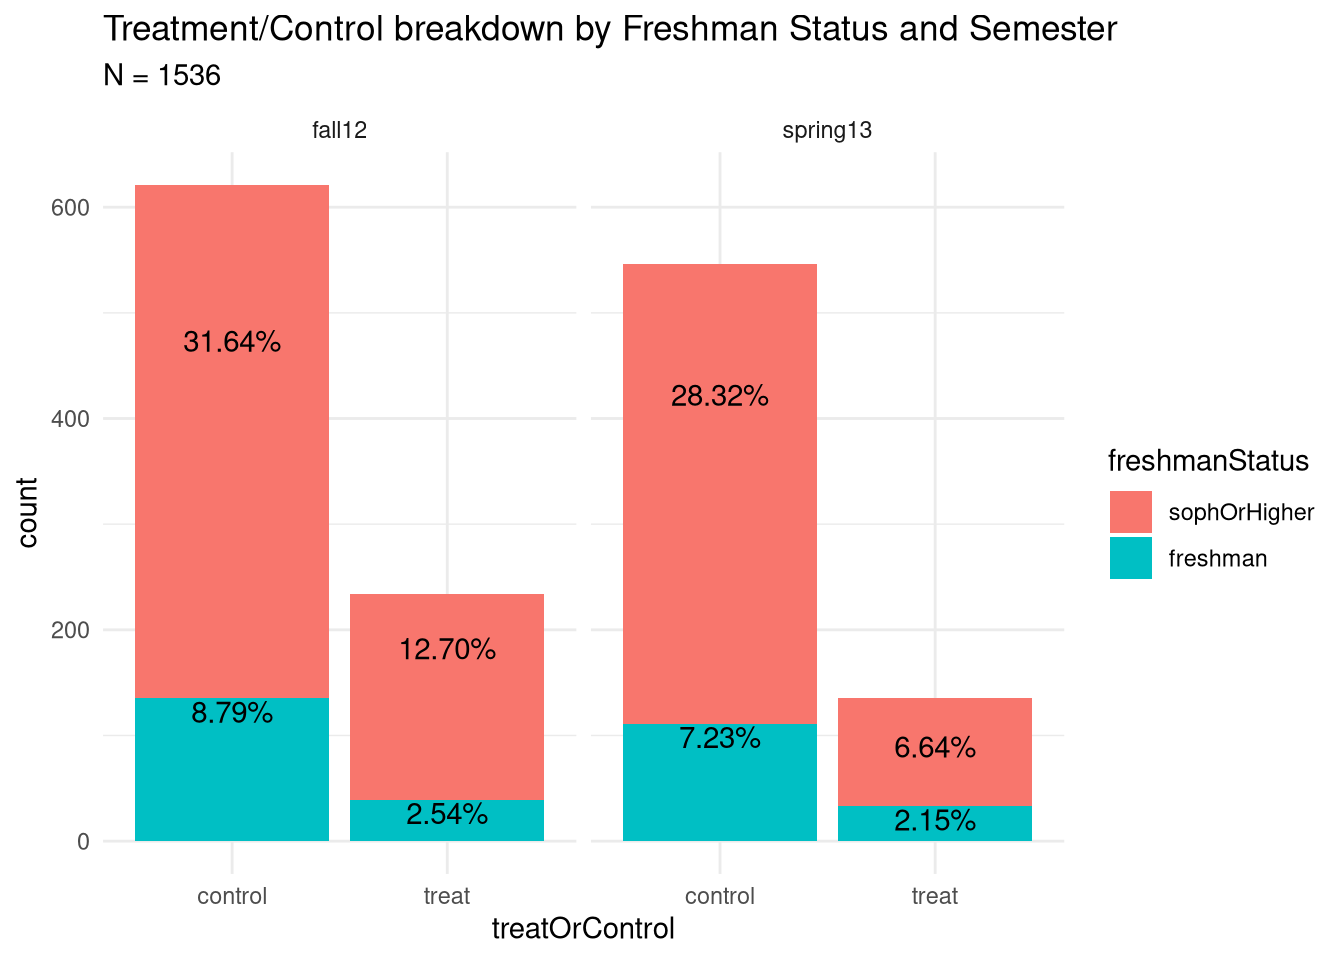
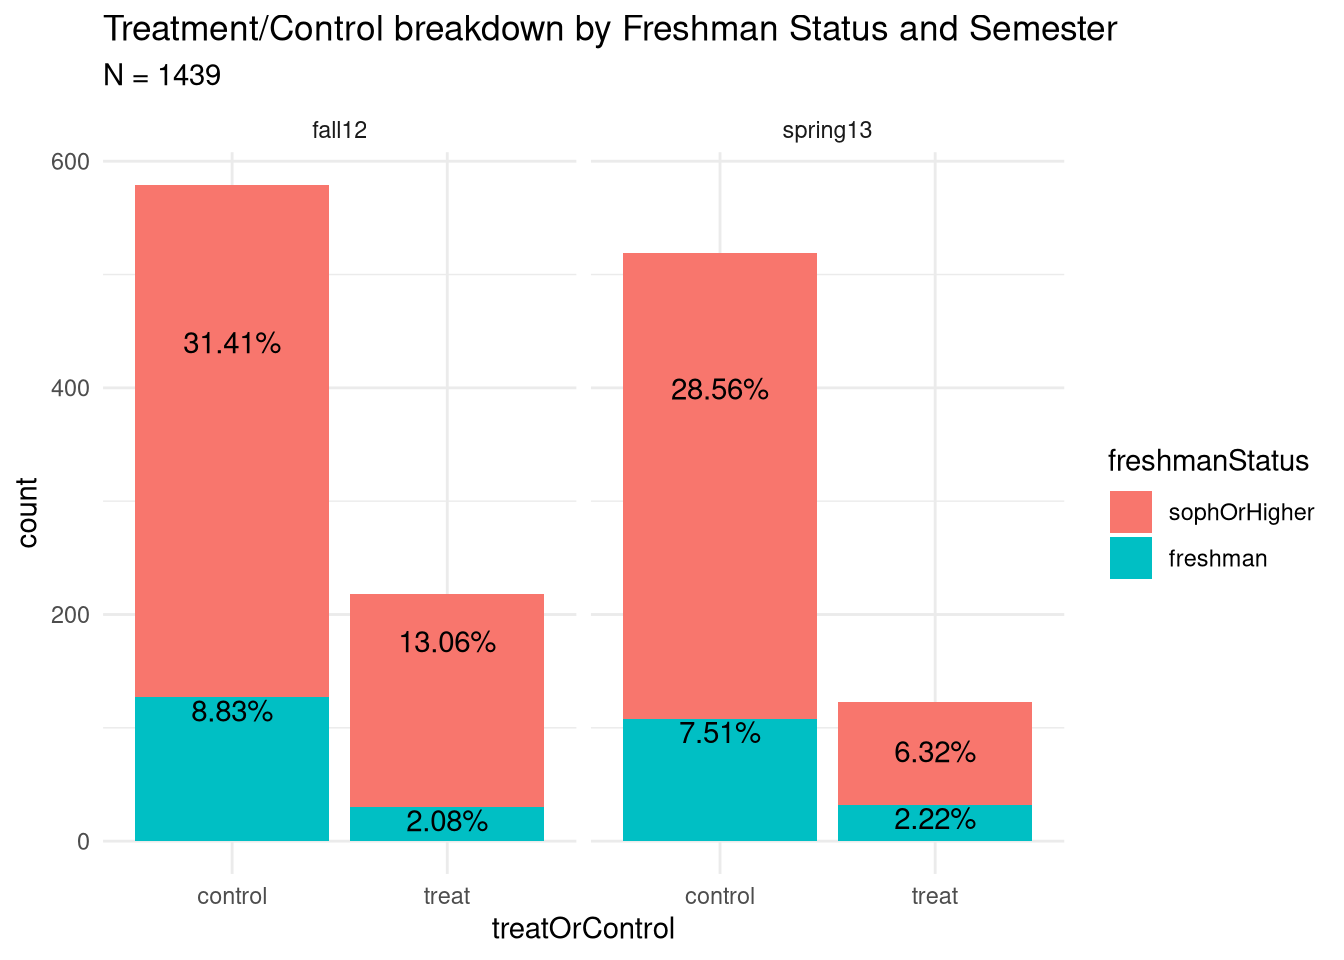
add missing docs

diff --git a/docs/looseJoinDrilldown.html b/docs/looseJoinDrilldown.html
@@ -409,7 +409,7 @@ div.section {
 <div class="tab-content">
 <div id="summary" class="tab-pane fade in active">
 <p>
-<strong>Last updated:</strong> 2020-03-12
+<strong>Last updated:</strong> 2020-03-13
 </p>
 <p>
 <strong>Checks:</strong> <span class="glyphicon glyphicon-ok text-success" aria-hidden="true"></span> 7 <span class="glyphicon glyphicon-exclamation-sign text-danger" aria-hidden="true"></span> 0
@@ -500,10 +500,10 @@ This reproducible <a href="http://rmarkdown.rstudio.com">R Markdown</a> analysis
 <div class="panel panel-default">
 <div class="panel-heading">
 <p class="panel-title">
-<a data-toggle="collapse" data-parent="#workflowr-checks" href="#strongRepositoryversionstrongahrefhttpsgithubcomshugamoecleanittree554672df8f36a7e1298d11f599de1d4cf920f009targetblank554672da"> <span class="glyphicon glyphicon-ok text-success" aria-hidden="true"></span> <strong>Repository version:</strong> <a href="https://github.com/shugamoe/cleanit/tree/554672df8f36a7e1298d11f599de1d4cf920f009" target="_blank">554672d</a> </a>
+<a data-toggle="collapse" data-parent="#workflowr-checks" href="#strongRepositoryversionstrongahrefhttpsgithubcomshugamoecleanittree6a02cee3247486bd5531dcb34a848a39cbcbbd1etargetblank6a02ceea"> <span class="glyphicon glyphicon-ok text-success" aria-hidden="true"></span> <strong>Repository version:</strong> <a href="https://github.com/shugamoe/cleanit/tree/6a02cee3247486bd5531dcb34a848a39cbcbbd1e" target="_blank">6a02cee</a> </a>
 </p>
 </div>
[2 lines of base64/hex data omitted]
 <div class="panel-body">
 <p>
 Great! You are using Git for version control. Tracking code development and connecting the code version to the results is critical for reproducibility. The version displayed above was the version of the Git repository at the time these results were generated. <br><br> Note that you need to be careful to ensure that all relevant files for the analysis have been committed to Git prior to generating the results (you can use <code>wflow_publish</code> or <code>wflow_git_commit</code>). workflowr only checks the R Markdown file, but you know if there are other scripts or data files that it depends on. Below is the status of the Git repository when the results were generated:
@@ -523,7 +523,6 @@ Untracked files:
 Unstaged changes:
     Modified:   R/functions.R
     Modified:   analysis/summaryStats.Rmd
-    Modified:   packrat/packrat.lock
 
 </code></pre>
 <p>
@@ -562,6 +561,23 @@ Message
 </tr>
 </thead>
 <tbody>
+<tr>
+<td>
+html
+</td>
+<td>
+<a href="https://rawcdn.githack.com/shugamoe/cleanit/08686f9ee7cc7a63bf43b868ff305ea8cd88cb88/docs/looseJoinDrilldown.html" target="_blank">08686f9</a>
+</td>
+<td>
+Julian McClellan
+</td>
+<td>
+2020-03-12
+</td>
+<td>
+adding missing docs
+</td>
+</tr>
 <tr>
 <td>
 html
@@ -736,13 +752,13 @@ wflow_publish(knitr_in(“analysis/looseJoinDrilldown.Rmd”), view = T,
 </div>
 <div id="final-effect" class="section level2">
 <h2>Final Effect</h2>
-<p>Thankfully, there are only 36 rows that have incorrectly specified treatment assignment in the loose joined data out of 1536 total rows.</p>
+<p>Thankfully, there are only 33 rows that have incorrectly specified treatment assignment in the loose joined data out of 1439 total rows.</p>
 <p>These rows can now be properly specified with <code>fieldCourseSum</code>.</p>
 </div>
 </div>
 <div id="drilldown-of-the-loose-join-data" class="section level1">
 <h1>Drilldown of the Loose Join Data</h1>
-<p>Of the 1536 observations we have in the final loose joined dataset, let’s investigate how these numbers breakdown in terms of <code>period</code> (<code>fall12</code> or <code>spring13</code>), <code>freshdum.cs</code> (freshman or not), and <code>fieldcourse</code> (<code>1</code> treatment, <code>0</code> control/non-compliant treatment).</p>
+<p>Of the 1439 observations we have in the final loose joined dataset, let’s investigate how these numbers breakdown in terms of <code>period</code> (<code>fall12</code> or <code>spring13</code>), <code>freshdum.cs</code> (freshman or not), and <code>fieldcourse</code> (<code>1</code> treatment, <code>0</code> control/non-compliant treatment).</p>
 <p><img src="figure/looseJoinDrilldown.Rmd/plotdrilldown-1.png" width="672" style="display: block; margin: auto;" /></p>
 <p>
 <button type="button" class="btn btn-default btn-xs btn-workflowr btn-workflowr-fig" data-toggle="collapse" data-target="#fig-plotdrilldown-1">
@@ -809,7 +825,7 @@ Julian McClellan
 <p>3/6/2020 we discussed the possibility of tracking “updates” to students’ price beliefs. We posited that from Fall 2012 to Spring 2013, there would be a number of students who start under the control group in Fall 2012, and from there that <code>initial</code> group would split into an <code>afterTreatment</code> and <code>afterControl</code> group come Spring 2013, or disappear entirely.</p>
 <div id="numbers-dont-work-out-for-it" class="section level2">
 <h2>Numbers don’t work out for it</h2>
-<p>Unfortunately of the 621 observations in the loose joined data that were in the control group for Fall 2012 (<code>period == "fall12"</code> and <code>fieldCourseSum == 0</code>), 0 of them become part of the treatment come Spring 2013 (same <code>email</code> for control in Fall 2012, <code>period == "spring13"</code>, and <code>fieldCourseSum &gt;= 1</code>), and 27 remain as part of the control group in Spring 2013 (same <code>email</code>, <code>period == "spring13"</code>, and <code>fieldCourseSum == 0</code>).</p>
+<p>Unfortunately of the 579 observations in the loose joined data that were in the control group for Fall 2012 (<code>period == "fall12"</code> and <code>fieldCourseSum == 0</code>), 0 of them become part of the treatment come Spring 2013 (same <code>email</code> for control in Fall 2012, <code>period == "spring13"</code>, and <code>fieldCourseSum &gt;= 1</code>), and 26 remain as part of the control group in Spring 2013 (same <code>email</code>, <code>period == "spring13"</code>, and <code>fieldCourseSum == 0</code>).</p>
 <br>
 <p>
 <button type="button" class="btn btn-default btn-workflowr btn-workflowr-sessioninfo" data-toggle="collapse" data-target="#workflowr-sessioninfo" style="display: block;">
@@ -822,7 +838,7 @@ Platform: x86_64-pc-linux-gnu (64-bit)
 Running under: Manjaro Linux
 
 Matrix products: default
-BLAS:   /usr/lib/libopenblasp-r0.3.8.so
+BLAS:   /usr/lib/libblas.so.3.9.0
 LAPACK: /usr/lib/liblapack.so.3.9.0
 
 locale:

diff --git a/docs/license.html b/docs/license.html
@@ -333,7 +333,7 @@ div.section {
 <div class="tab-content">
 <div id="summary" class="tab-pane fade in active">
 <p>
-<strong>Last updated:</strong> 2020-03-12
+<strong>Last updated:</strong> 2020-03-13
 </p>
 <p>
 <strong>Checks:</strong> <span class="glyphicon glyphicon-ok text-success" aria-hidden="true"></span> 2 <span class="glyphicon glyphicon-exclamation-sign text-danger" aria-hidden="true"></span> 0
@@ -364,10 +364,10 @@ This reproducible <a href="http://rmarkdown.rstudio.com">R Markdown</a> analysis
 <div class="panel panel-default">
 <div class="panel-heading">
 <p class="panel-title">
-<a data-toggle="collapse" data-parent="#workflowr-checks" href="#strongRepositoryversionstrongahrefhttpsgithubcomshugamoecleanittree554672df8f36a7e1298d11f599de1d4cf920f009targetblank554672da"> <span class="glyphicon glyphicon-ok text-success" aria-hidden="true"></span> <strong>Repository version:</strong> <a href="https://github.com/shugamoe/cleanit/tree/554672df8f36a7e1298d11f599de1d4cf920f009" target="_blank">554672d</a> </a>
+<a data-toggle="collapse" data-parent="#workflowr-checks" href="#strongRepositoryversionstrongahrefhttpsgithubcomshugamoecleanittree6a02cee3247486bd5531dcb34a848a39cbcbbd1etargetblank6a02ceea"> <span class="glyphicon glyphicon-ok text-success" aria-hidden="true"></span> <strong>Repository version:</strong> <a href="https://github.com/shugamoe/cleanit/tree/6a02cee3247486bd5531dcb34a848a39cbcbbd1e" target="_blank">6a02cee</a> </a>
 </p>
 </div>
[2 lines of base64/hex data omitted]
 <div class="panel-body">
 <p>
 Great! You are using Git for version control. Tracking code development and connecting the code version to the results is critical for reproducibility. The version displayed above was the version of the Git repository at the time these results were generated. <br><br> Note that you need to be careful to ensure that all relevant files for the analysis have been committed to Git prior to generating the results (you can use <code>wflow_publish</code> or <code>wflow_git_commit</code>). workflowr only checks the R Markdown file, but you know if there are other scripts or data files that it depends on. Below is the status of the Git repository when the results were generated:
@@ -387,7 +387,6 @@ Untracked files:
 Unstaged changes:
     Modified:   R/functions.R
     Modified:   analysis/summaryStats.Rmd
-    Modified:   packrat/packrat.lock
 
 </code></pre>
 <p>
@@ -426,6 +425,23 @@ Message
 </tr>
 </thead>
 <tbody>
+<tr>
+<td>
+html
+</td>
+<td>
+<a href="https://rawcdn.githack.com/shugamoe/cleanit/08686f9ee7cc7a63bf43b868ff305ea8cd88cb88/docs/license.html" target="_blank">08686f9</a>
+</td>
+<td>
+Julian McClellan
+</td>
+<td>
+2020-03-12
+</td>
+<td>
+adding missing docs
+</td>
+</tr>
 <tr>
 <td>
 html

diff --git a/docs/about.html b/docs/about.html
@@ -333,7 +333,7 @@ div.section {
 <div class="tab-content">
 <div id="summary" class="tab-pane fade in active">
 <p>
-<strong>Last updated:</strong> 2020-03-12
+<strong>Last updated:</strong> 2020-03-13
 </p>
 <p>
 <strong>Checks:</strong> <span class="glyphicon glyphicon-ok text-success" aria-hidden="true"></span> 2 <span class="glyphicon glyphicon-exclamation-sign text-danger" aria-hidden="true"></span> 0
@@ -364,10 +364,10 @@ This reproducible <a href="http://rmarkdown.rstudio.com">R Markdown</a> analysis
 <div class="panel panel-default">
 <div class="panel-heading">
 <p class="panel-title">
-<a data-toggle="collapse" data-parent="#workflowr-checks" href="#strongRepositoryversionstrongahrefhttpsgithubcomshugamoecleanittree554672df8f36a7e1298d11f599de1d4cf920f009targetblank554672da"> <span class="glyphicon glyphicon-ok text-success" aria-hidden="true"></span> <strong>Repository version:</strong> <a href="https://github.com/shugamoe/cleanit/tree/554672df8f36a7e1298d11f599de1d4cf920f009" target="_blank">554672d</a> </a>
+<a data-toggle="collapse" data-parent="#workflowr-checks" href="#strongRepositoryversionstrongahrefhttpsgithubcomshugamoecleanittree6a02cee3247486bd5531dcb34a848a39cbcbbd1etargetblank6a02ceea"> <span class="glyphicon glyphicon-ok text-success" aria-hidden="true"></span> <strong>Repository version:</strong> <a href="https://github.com/shugamoe/cleanit/tree/6a02cee3247486bd5531dcb34a848a39cbcbbd1e" target="_blank">6a02cee</a> </a>
 </p>
 </div>
[2 lines of base64/hex data omitted]
 <div class="panel-body">
 <p>
 Great! You are using Git for version control. Tracking code development and connecting the code version to the results is critical for reproducibility. The version displayed above was the version of the Git repository at the time these results were generated. <br><br> Note that you need to be careful to ensure that all relevant files for the analysis have been committed to Git prior to generating the results (you can use <code>wflow_publish</code> or <code>wflow_git_commit</code>). workflowr only checks the R Markdown file, but you know if there are other scripts or data files that it depends on. Below is the status of the Git repository when the results were generated:
@@ -387,7 +387,6 @@ Untracked files:
 Unstaged changes:
     Modified:   R/functions.R
     Modified:   analysis/summaryStats.Rmd
-    Modified:   packrat/packrat.lock
 
 </code></pre>
 <p>
@@ -426,6 +425,23 @@ Message
 </tr>
 </thead>
 <tbody>
+<tr>
+<td>
+html
+</td>
+<td>
+<a href="https://rawcdn.githack.com/shugamoe/cleanit/08686f9ee7cc7a63bf43b868ff305ea8cd88cb88/docs/about.html" target="_blank">08686f9</a>
+</td>
+<td>
+Julian McClellan
+</td>
+<td>
+2020-03-12
+</td>
+<td>
+adding missing docs
+</td>
+</tr>
 <tr>
 <td>
 html

diff --git a/docs/index.html b/docs/index.html
@@ -333,7 +333,7 @@ div.section {
 <div class="tab-content">
 <div id="summary" class="tab-pane fade in active">
 <p>
-<strong>Last updated:</strong> 2020-03-12
+<strong>Last updated:</strong> 2020-03-13
 </p>
 <p>
 <strong>Checks:</strong> <span class="glyphicon glyphicon-ok text-success" aria-hidden="true"></span> 2 <span class="glyphicon glyphicon-exclamation-sign text-danger" aria-hidden="true"></span> 0
@@ -364,10 +364,10 @@ This reproducible <a href="http://rmarkdown.rstudio.com">R Markdown</a> analysis
 <div class="panel panel-default">
 <div class="panel-heading">
 <p class="panel-title">
-<a data-toggle="collapse" data-parent="#workflowr-checks" href="#strongRepositoryversionstrongahrefhttpsgithubcomshugamoecleanittree554672df8f36a7e1298d11f599de1d4cf920f009targetblank554672da"> <span class="glyphicon glyphicon-ok text-success" aria-hidden="true"></span> <strong>Repository version:</strong> <a href="https://github.com/shugamoe/cleanit/tree/554672df8f36a7e1298d11f599de1d4cf920f009" target="_blank">554672d</a> </a>
+<a data-toggle="collapse" data-parent="#workflowr-checks" href="#strongRepositoryversionstrongahrefhttpsgithubcomshugamoecleanittree6a02cee3247486bd5531dcb34a848a39cbcbbd1etargetblank6a02ceea"> <span class="glyphicon glyphicon-ok text-success" aria-hidden="true"></span> <strong>Repository version:</strong> <a href="https://github.com/shugamoe/cleanit/tree/6a02cee3247486bd5531dcb34a848a39cbcbbd1e" target="_blank">6a02cee</a> </a>
 </p>
 </div>
[2 lines of base64/hex data omitted]
 <div class="panel-body">
 <p>
 Great! You are using Git for version control. Tracking code development and connecting the code version to the results is critical for reproducibility. The version displayed above was the version of the Git repository at the time these results were generated. <br><br> Note that you need to be careful to ensure that all relevant files for the analysis have been committed to Git prior to generating the results (you can use <code>wflow_publish</code> or <code>wflow_git_commit</code>). workflowr only checks the R Markdown file, but you know if there are other scripts or data files that it depends on. Below is the status of the Git repository when the results were generated:
@@ -387,7 +387,6 @@ Untracked files:
 Unstaged changes:
     Modified:   R/functions.R
     Modified:   analysis/summaryStats.Rmd
-    Modified:   packrat/packrat.lock
 
 </code></pre>
 <p>
@@ -426,6 +425,23 @@ Message
 </tr>
 </thead>
 <tbody>
+<tr>
+<td>
+html
+</td>
+<td>
+<a href="https://rawcdn.githack.com/shugamoe/cleanit/08686f9ee7cc7a63bf43b868ff305ea8cd88cb88/docs/index.html" target="_blank">08686f9</a>
+</td>
+<td>
+Julian McClellan
+</td>
+<td>
+2020-03-12
+</td>
+<td>
+adding missing docs
+</td>
+</tr>
 <tr>
 <td>
 html
